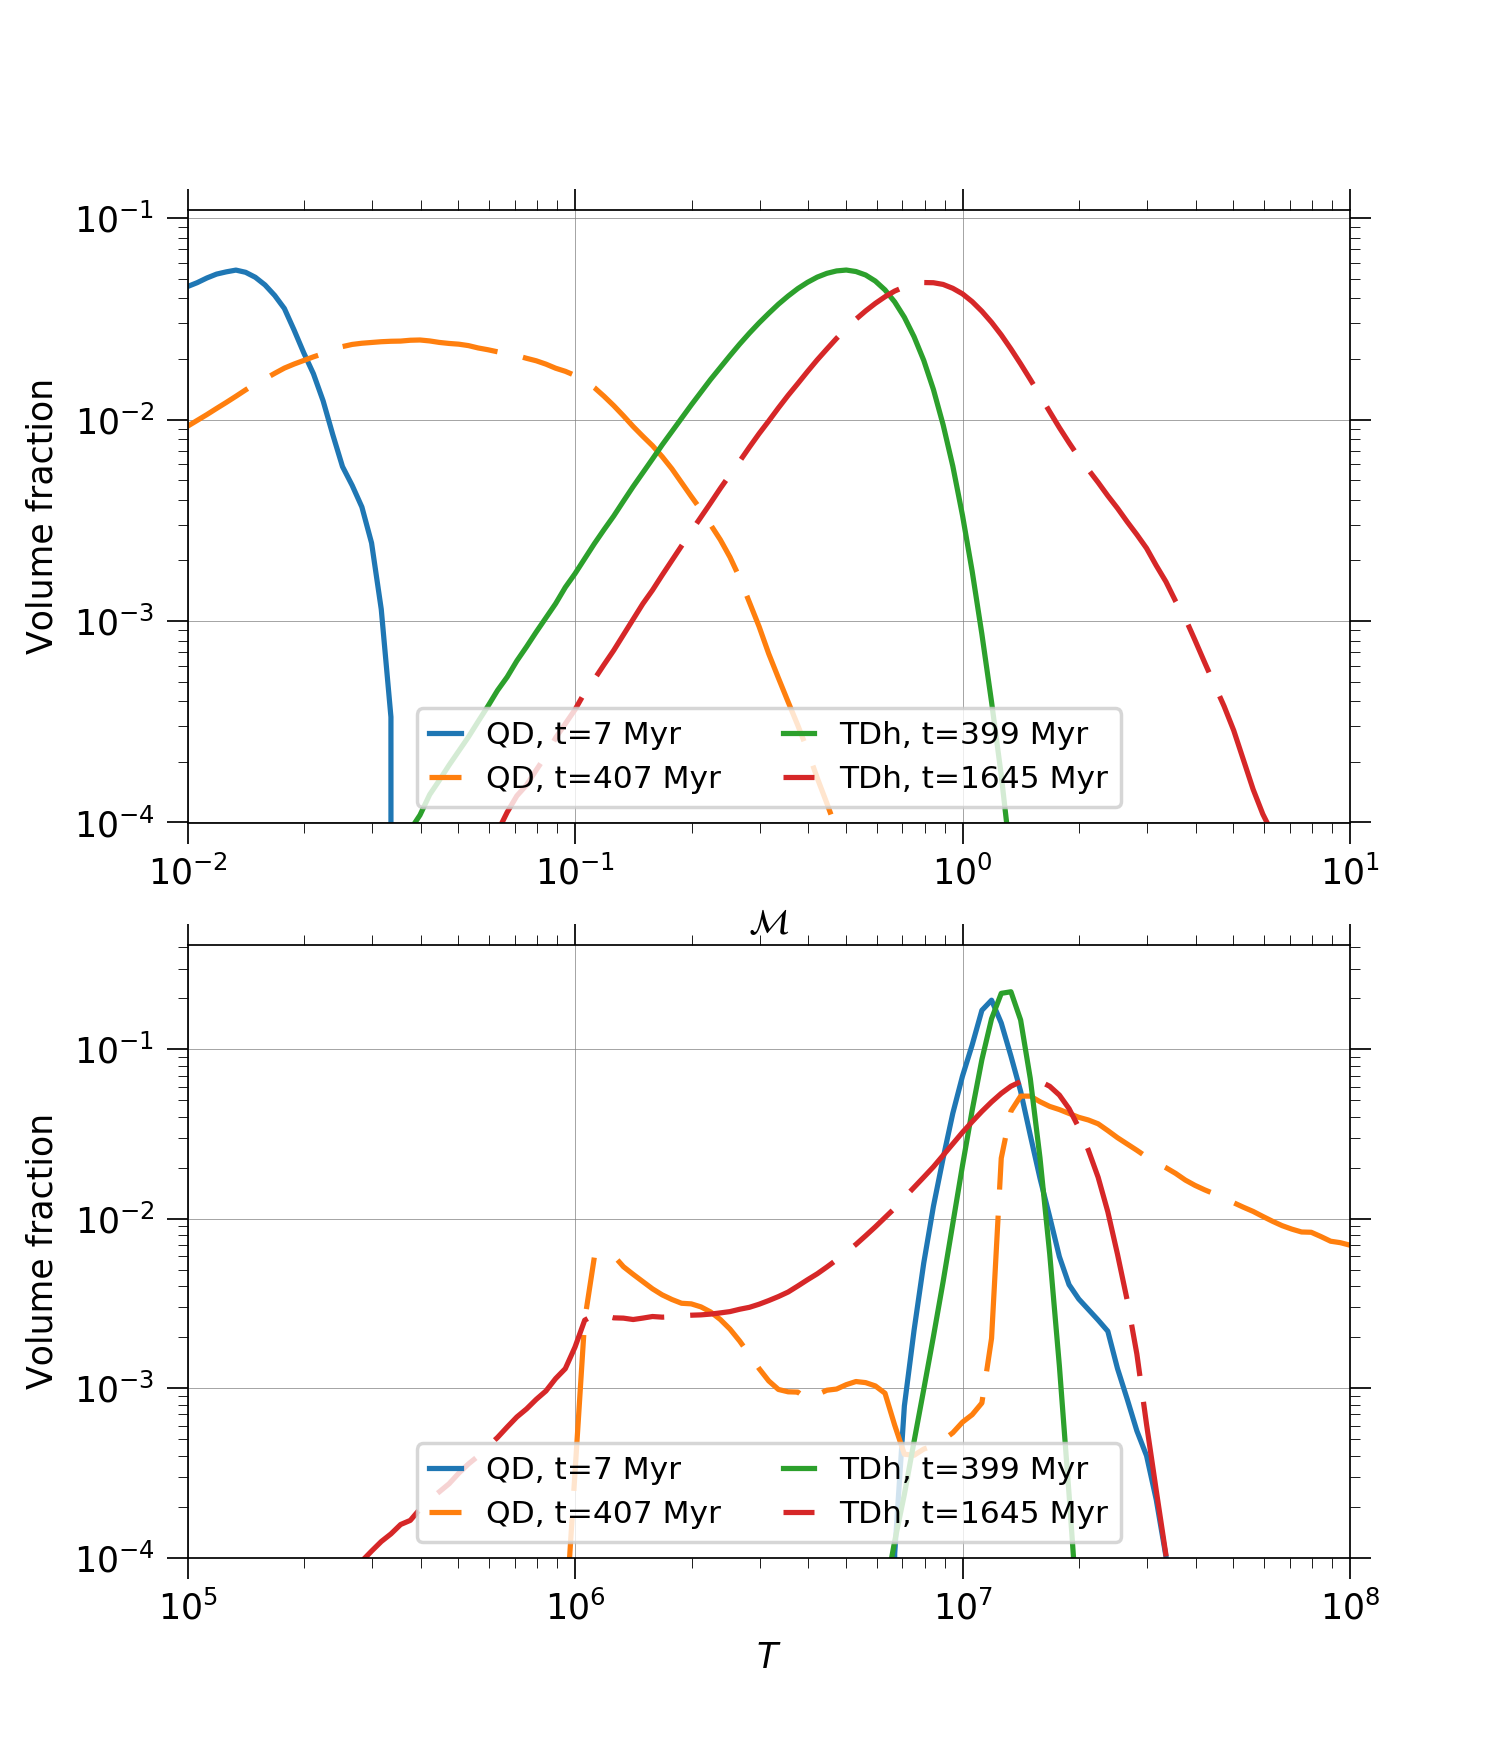
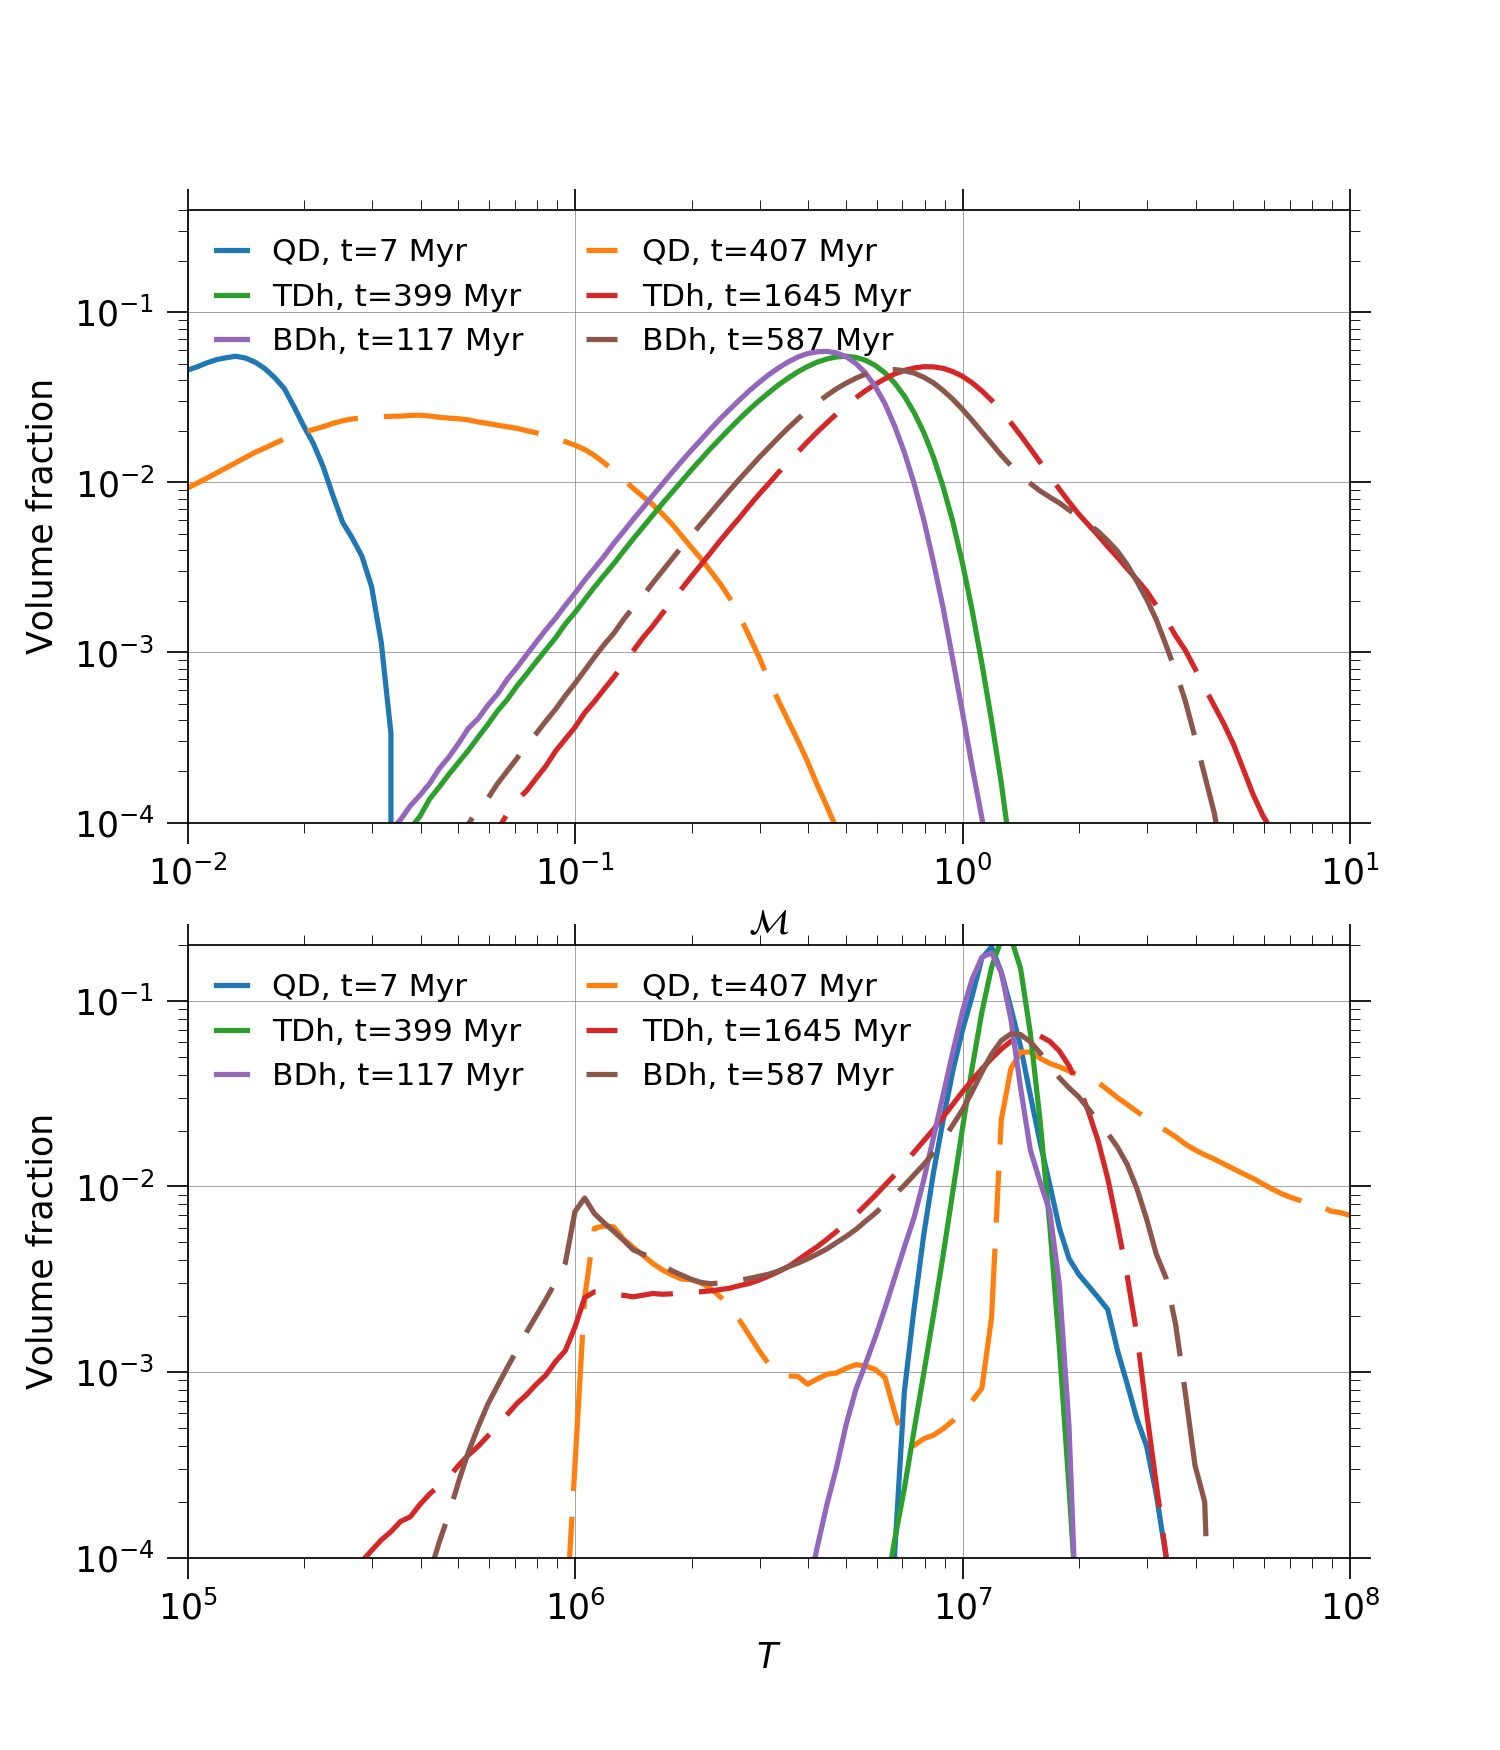
Edited mach-temp plots

diff --git a/mach_temp_dist/mach-temp-dist.py b/mach_temp_dist/mach-temp-dist.py
@@ -29,78 +29,87 @@ nx,ny,nz=256,256,256
 #step_size=(0.2, 0.2, 0.2, 0.2, 1.0, 0.2, 0.2, 0.2, 1.0, 0.2, 0.2, 0.2, 0.2)
 
 #wdir=('thermal_heating/256/tabulated_cooling/F5e-1/k0-2/', 'thermal_heating/256/tabulated_cooling/F5e-1/k12/')
-#wdir=('tabulated_cooling/256/k0-2/', 'tabulated_cooling/256/k12/')
-wdir=('no_turb/2e-1/', 'turb_perturb//DkHC2e-1/', 'turb_perturb/DBh2e-1/')
+wdir=('tabulated_cooling/256/k0-2/', 'tabulated_cooling/256/k12/')
+#wdir=('no_turb/2e-1/', 'turb_perturb//DkHC2e-1/', 'turb_perturb/DBh2e-1/F5e-1/')
 
 #labels=('Bl', 'Bh')
-#labels=('Tl', 'Th')
-labels=('QD', 'TDh', 'BDh')
+labels=('Tl', 'Th')
+#labels=('QD', 'TDh', 'BDh')
+
+#num_plots=2
+num_plots=2
+#num_plots=3
+
+distM = [None] * (num_plots*2)
+distT = [None] * (num_plots*2)
 
 #t_mp=(10., 42.)
-#t_mp=(10., 51.)
-t_mp=(10.4, 42., 15.)
+t_mp=(10., 51.)
+#t_mp=(10.4, 42., 15.)
 
 #t_turb=(1., 4.8)
-#t_turb=(0.8, 4.8)
-t_turb=(0.2, 10.2, 3.)
+t_turb=(0.8, 4.8)
+#t_turb=(0.2, 10.2, 3.)
 
 step_size=np.array((0.2))#, 0.2, 0.2))
 
 #Initialise the figure
 fig, (ax1, ax2) = plt.subplots(2, 1)
 
-for i in xrange(2):
-
+for i in xrange(num_plots):
+	j=i
 	filedir='/mnt/lustre/ug4/ugrajs/cooling/'+wdir[i]
 	file=filedir+'mach'+str(int(t_turb[i]/step_size+0.1)).rjust(4,'0')+'.txt'
 	data = np.loadtxt(file, skiprows=1, usecols=(0,1))
-	ax1.plot(data[:,0], data[:,1]/(float(nx*ny*nz)), label=labels[i]+', t='+str(int(t_turb[i]*UNIT_TIME))+' Myr')
+	distM[j], =ax1.plot(data[:,0], data[:,1]/(float(nx*ny*nz)), label=labels[i]+', t='+str(int(t_turb[i]*UNIT_TIME))+' Myr')
 	file=filedir+'mach'+str(int(t_mp[i]/step_size+0.1)).rjust(4,'0')+'.txt'
 	data = np.loadtxt(file, skiprows=1, usecols=(0,1))
-	ax1.plot(data[:,0], data[:,1]/(float(nx*ny*nz)), dashes=[30, 5, 10, 5], label=labels[i]+', t='+str(int(t_mp[i]*UNIT_TIME))+' Myr')
+	distM[j+num_plots], =ax1.plot(data[:,0], data[:,1]/(float(nx*ny*nz)), dashes=[30, 5, 10, 5], label=labels[i]+', t='+str(int(t_mp[i]*UNIT_TIME))+' Myr')
 	fig.set_size_inches(6, 7)
 	ax1.set_xscale('log')
 	ax1.set_yscale('log')
 	ax1.set_xlim(1e-2, 1e1)
-	ax1.set_ylim(1e-4, )
+	ax1.set_ylim(1e-4, 2e-1)
 	ax1.set_xlabel(r'$\mathcal{M}$')
 	ax1.set_ylabel(r'Volume fraction')
 	# Shrink current axis by 20%
 	box = ax1.get_position()
 	ax1.set_position([box.x0, box.y0, box.width, box.height])
-	# Put a legend to the bottom of the current axis
-	ax1.legend(loc='lower center', ncol=2)
 	#plt.savefig('mach-dist.png',dpi=250)
 	ax1.tick_params(axis='both', which='major', direction='out', length=6, width=0.5, top=True, right=True)
 	ax1.tick_params(axis='both', which='minor', direction='out', length=3, width=0.25, top=True, right=True)
 	ax1.grid(color='grey', linestyle='-', linewidth=0.2)
+	
 
 
 	filedir='/mnt/lustre/ug4/ugrajs/cooling/'+wdir[i]
 	file=filedir+'temp'+str(int(t_turb[i]/step_size+0.1)).rjust(4,'0')+'.txt'
 	data = np.loadtxt(file, skiprows=1, usecols=(0,1))
-	ax2.plot(data[:,0], data[:,1]/(float(nx*ny*nz)), label=labels[i]+', t='+str(int(t_turb[i]*UNIT_TIME))+' Myr')
+	distT[j], =ax2.plot(data[:,0], data[:,1]/(float(nx*ny*nz)), label=labels[i]+', t='+str(int(t_turb[i]*UNIT_TIME))+' Myr')
 	file=filedir+'temp'+str(int(t_mp[i]/step_size+0.1)).rjust(4,'0')+'.txt'
 	data = np.loadtxt(file, skiprows=1, usecols=(0,1))
-	ax2.plot(data[:,0], data[:,1]/(float(nx*ny*nz)), dashes=[30, 5, 10, 5], label=labels[i]+', t='+str(int(t_mp[i]*UNIT_TIME))+' Myr')
+	distT[j+num_plots], =ax2.plot(data[:,0], data[:,1]/(float(nx*ny*nz)), dashes=[30, 5, 10, 5], label=labels[i]+', t='+str(int(t_mp[i]*UNIT_TIME))+' Myr')
 	ax2.set_xscale('log')
 	ax2.set_yscale('log')
 	ax2.set_xlim(1e5, 1e8)
-	ax2.set_ylim(1e-4, )
+	ax2.set_ylim(1e-4, 2e-1)
 	ax2.set_xlabel(r'$T$')
 	ax2.set_ylabel(r'Volume fraction')
 	box = ax2.get_position()
 	ax2.set_position([box.x0, box.y0, box.width, box.height])
 	# Put a legend to the bottom of the current axis
-	ax2.legend(loc='lower center', ncol=2)
+	ax2.legend(loc='upper left', ncol=2, fancybox=True, framealpha=0.)
 	#plt.savefig('temp-dist.png',dpi=250)
 	ax2.tick_params(axis='both', which='major', direction='out', length=6, width=0.5, top=True, right=True)
 	ax2.tick_params(axis='both', which='minor', direction='out', length=3, width=0.25, top=True, right=True)
 	ax2.grid(color='grey', linestyle='-', linewidth=0.2)
 
+distM_legend=ax1.legend(handles=distM, loc='upper left', ncol=2, fancybox=True, framealpha=0.)
+distT_legend=ax2.legend(handles=distT, loc='upper left', ncol=2, fancybox=True, framealpha=0.)
+
 #plt.savefig('mach-temp-dist-B.png',dpi=250, mode="expand", borderaxespad=0.)
-#plt.savefig('mach-temp-dist-T.png',dpi=250, mode="expand", borderaxespad=0.)
-plt.savefig('mach-temp-dist-D.png',dpi=250, mode="expand", borderaxespad=0.)
+plt.savefig('mach-temp-dist-T.png',dpi=250, mode="expand", borderaxespad=0.)
+#plt.savefig('mach-temp-dist-D.png',dpi=250, mode="expand", borderaxespad=0.)
 
 plt.close()
 
